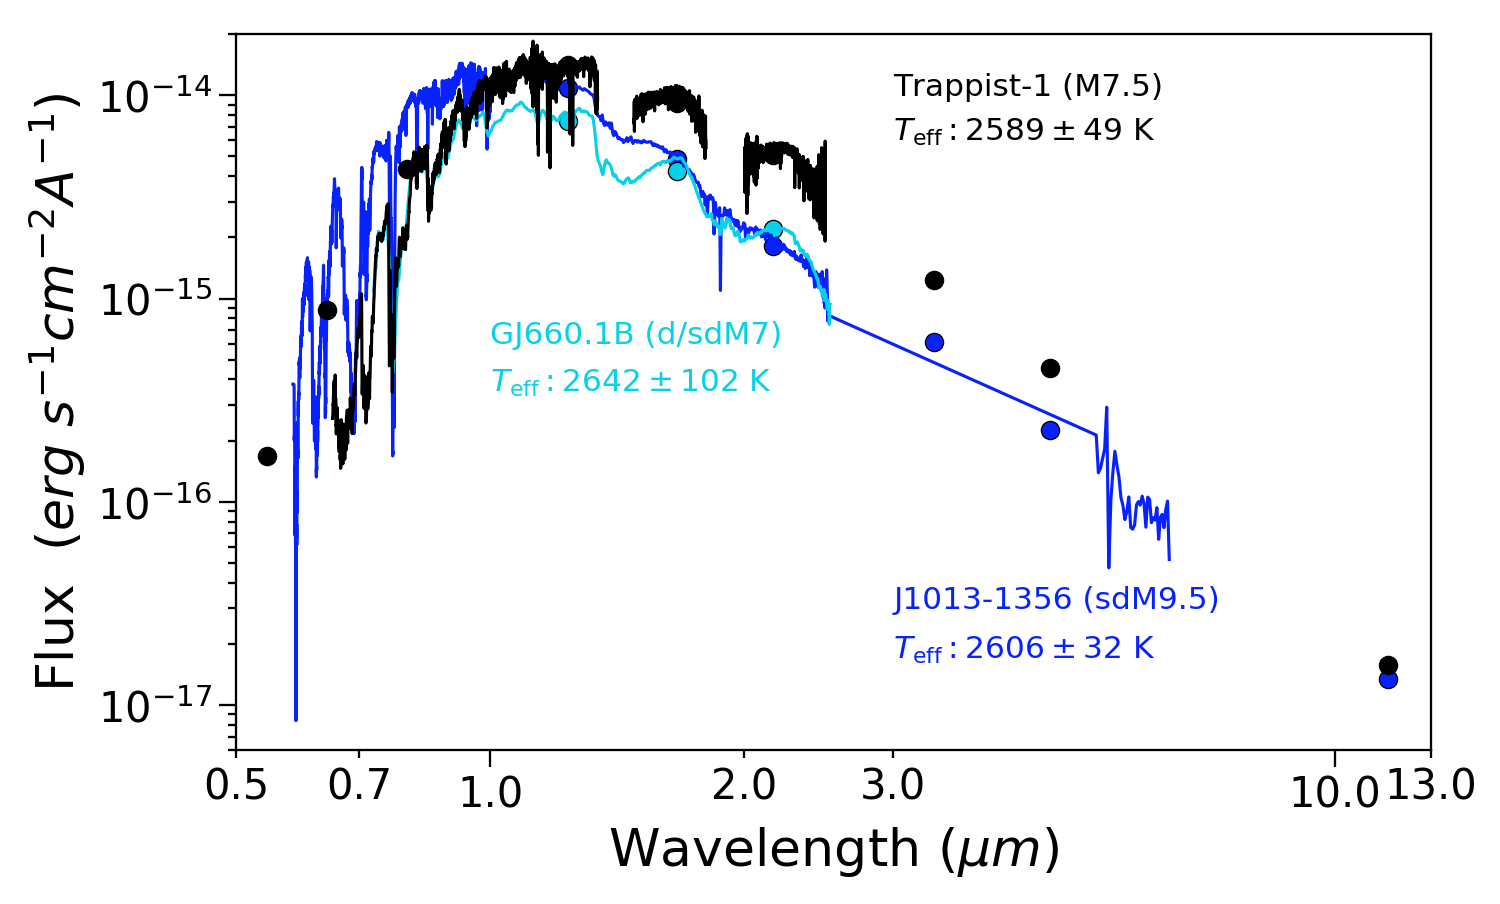
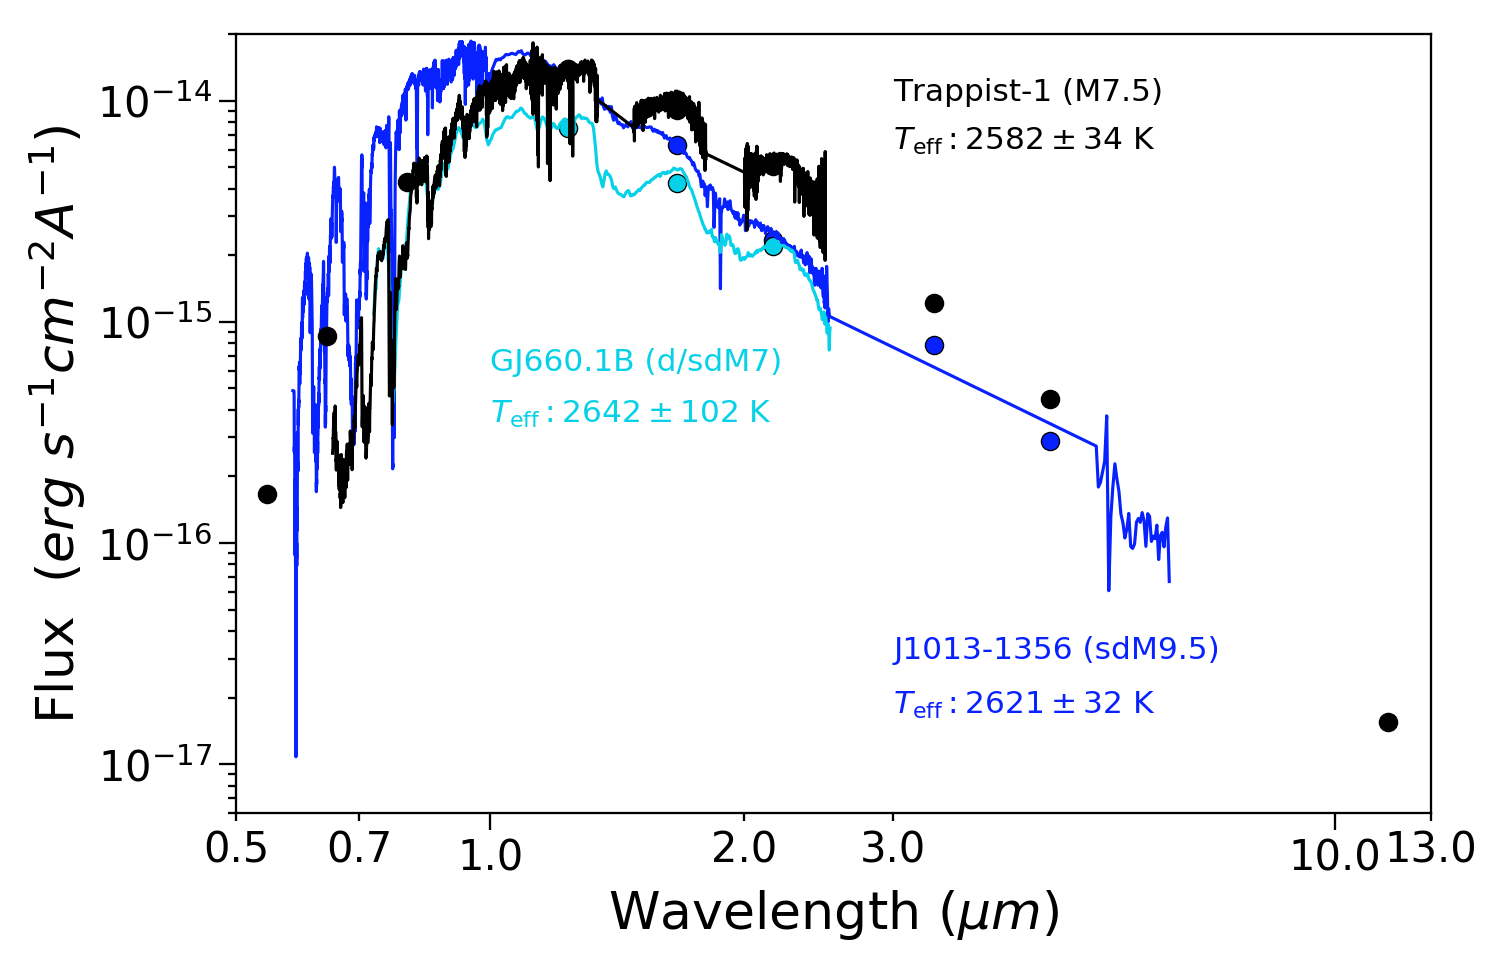
updated plots because of Gaia

diff --git a/Trappist_old_comparison.py b/Trappist_old_comparison.py
@@ -7,23 +7,23 @@ from matplotlib.ticker import ScalarFormatter
 # ------------------------------------------------------------------------------------
 # Read  all in as pandas dataframes
 
-df_trap = pd.read_csv('Data/FIRE2306-0502 (M7.5) SED.txt', sep=" ", comment='#', header=None,
+df_trap = pd.read_csv('Data/Gaia2306-0502 (M7.5) SED.txt', sep=" ", comment='#', header=None,
                       names=["w", "f", "err"])
-df_trap_phot = pd.read_csv('Data/FIRE2306-0502 (M7.5) phot.txt', sep=" ", comment='#', header=None,
+df_trap_phot = pd.read_csv('Data/Gaia2306-0502 (M7.5) phot.txt', sep=" ",comment='#', header=None,
                            names=["w", "f", "err"])
 
 # -------------- Comparison objects of the same Teff (old) ----------------------------------
-df_1013 = pd.read_csv('../Atmospheres_paper/Data/1013-1356 (-) SED.txt', sep=" ", comment='#', header=None,
+df_1013 = pd.read_csv('../Atmospheres_paper/Data/Gaia1013-1356 (M9.5sd) SED.txt', sep=" ", comment='#', header=None,
                       names=["w", "f", "err"])
-df_1013_phot = pd.read_csv('../Atmospheres_paper/Data/1013-1356 (-) phot.txt', sep=" ", comment='#', header=None,
+df_1013_phot = pd.read_csv('../Atmospheres_paper/Data/Gaia1013-1356 (M9.5sd) phot.txt', sep=" ", comment='#', header=None,
                            names=["w", "f", "err"])
 df_GJ660 = pd.read_csv('Data/old_comp/spectra_gj6601b.txt', sep="\t", comment='#', header=0,
                        names=["w", "f", "err"])
 df_GJ660_phot = pd.read_csv('Data/old_comp/phot_gj6601b.txt', sep="\t", comment='#', header=0,
                             names=["w", "f", "err"])
-df_HD = pd.read_csv('../Atmospheres_paper/Data/HD114762B (M9sd) SED.txt', sep=" ", comment='#', header=None,
+df_HD = pd.read_csv('../Atmospheres_paper/Data/GaiaHD114762B (M9sd) SED.txt', sep=" ", comment='#', header=0,
                     names=["w", "f", "err"])
-df_HD_phot = pd.read_csv('../Atmospheres_paper/Data/HD114762B (M9sd) phot.txt', sep=" ", comment='#', header=None,
+df_HD_phot = pd.read_csv('../Atmospheres_paper/Data/GaiaHD114762B (M9sd) phot.txt', sep=" ", comment='#', header=0,
                          names=["w", "f", "err"])
 
 # -------------------------------------------------------------------------------------
@@ -75,9 +75,9 @@ plt.ylabel('Flux  ($erg\ s^{-1} cm^{-2} A^{-1}$)', fontsize=25)
 
 # ------ Labeling Objects --------
 ax1.annotate('Trappist-1 (M7.5) ', xy=(3, 10**(-14)), color='k', fontsize=15)
-ax1.annotate('$T_\mathrm{eff}: 2589 \pm 49$ K', xy=(3, 6*10**(-15)), color='k', fontsize=15)
+ax1.annotate('$T_\mathrm{eff}: 2582 \pm 34$ K', xy=(3, 6*10**(-15)), color='k', fontsize=15)
 ax1.annotate('J1013-1356 (sdM9.5)', xy=(3, 3*10**(-17)), color='#0822FF', fontsize=15)
-ax1.annotate('$T_\mathrm{eff}: 2606 \pm 32$ K', xy=(3, 1.7*10**(-17)), color='#0822FF', fontsize=15)
+ax1.annotate('$T_\mathrm{eff}: 2621 \pm 32$ K', xy=(3, 1.7*10**(-17)), color='#0822FF', fontsize=15)
 ax1.annotate('GJ660.1B (d/sdM7)', xy=(1, 6*10**(-16)), color='#07D1E8', fontsize=15)
 ax1.annotate('$T_\mathrm{eff}: 2642 \pm 102$ K', xy=(1, 3.5*10**(-16)), color='#07D1E8', fontsize=15)
 

diff --git a/Trappist_best_fit_not_fieldcomps.py b/Trappist_best_fit_not_fieldcomps.py
@@ -11,9 +11,9 @@ df_trap = pd.read_csv('Data/FIRE2306-0502 (M7.5) SED.txt', sep=" ", comment='#',
                       names=["w", "f", "err"])
 df_trap_phot = pd.read_csv('Data/FIRE2306-0502 (M7.5) phot.txt', sep=" ", comment='#', header=None,
                            names=["w", "f", "err"])
-df_HD = pd.read_csv('../Atmospheres_paper/Data/HD114762B (M9sd) SED.txt', sep=" ", comment='#', header=None,
+df_HD = pd.read_csv('../Atmospheres_paper/Data/GaiaHD114762B (M9sd) SED.txt', sep=" ", comment='#', header=0,
                     names=["w", "f", "err"])
-df_HD_phot = pd.read_csv('../Atmospheres_paper/Data/HD114762B (M9sd) phot.txt', sep=" ", comment='#', header=None,
+df_HD_phot = pd.read_csv('../Atmospheres_paper/Data/GaiaHD114762B (M9sd) phot.txt', sep=" ", comment='#', header=0,
                          names=["w", "f", "err"])
 
 # -------------------------------------------------------------------------------------
@@ -55,11 +55,11 @@ plt.ylabel('Flux  ($erg\ s^{-1} cm^{-2} A^{-1}$)', fontsize=25)
 
 # ------ Labeling Objects --------
 ax1.annotate('Trappist-1 (M7.5) ', xy=(3, 10**(-14)), color='k', fontsize=15)
-ax1.annotate('$T_\mathrm{eff}: 2589 \pm 49$ K', xy=(3, 6.5*10**(-15)), color='k', fontsize=15)
-ax1.annotate('$L_\mathrm{bol}: -3.275 \pm 0.009$', xy=(3, 4.5*10**(-15)), color='k', fontsize=15)
+ax1.annotate('$T_\mathrm{eff}: 2582 \pm 34$ K', xy=(3, 6.5*10**(-15)), color='k', fontsize=15)
+ax1.annotate('$L_\mathrm{bol}: -3.254 \pm 0.002$', xy=(3, 4.5*10**(-15)), color='k', fontsize=15)
 ax1.annotate('HD114762B (d/sdM9)', xy=(1, 10**(-16)), color='blue', fontsize=15)
-ax1.annotate('$T_\mathrm{eff}: 2870 \pm 50$ K', xy=(1, 6.5*10**(-17)), color='blue', fontsize=15)
-ax1.annotate('$L_\mathrm{bol}: -2.998 \pm 0.027$', xy=(1, 4.5*10**(-17)), color='blue', fontsize=15)
+ax1.annotate('$T_\mathrm{eff}: 2894 \pm 24$ K', xy=(1, 6.5*10**(-17)), color='blue', fontsize=15)
+ax1.annotate('$L_\mathrm{bol}: -2.963 \pm 0.012$', xy=(1, 4.5*10**(-17)), color='blue', fontsize=15)
 
 plt.tight_layout()
 plt.savefig('Figures/bestfit_comp.png', dpi=150)

diff --git a/TrappistfullSEDplot.py b/TrappistfullSEDplot.py
@@ -9,9 +9,9 @@ from matplotlib.ticker import ScalarFormatter
 
 # ------------ 1256-0224 (Poster in SED)----------------
 # Read in as pandas dataframe
-df = pd.read_csv('Data/FIRE2306-0502 (M7.5) SED.txt', sep=" ", comment='#', header=None,
+df = pd.read_csv('Data/Gaia2306-0502 (M7.5) SED.txt', sep=" ", comment='#', header=None,
                  names=["w", "f", "err"])
-df2 = pd.read_csv('Data/FIRE2306-0502 (M7.5) phot.txt', sep=" ", comment='#', names=["w", "f", "err"])
+df2 = pd.read_csv('Data/Gaia2306-0502 (M7.5) phot.txt', sep=" ", comment='#', names=["w", "f", "err"])
 
 # -------------------------------------------------------------------------------------
 # ------------------------- Plotting --------------------------------------------------
